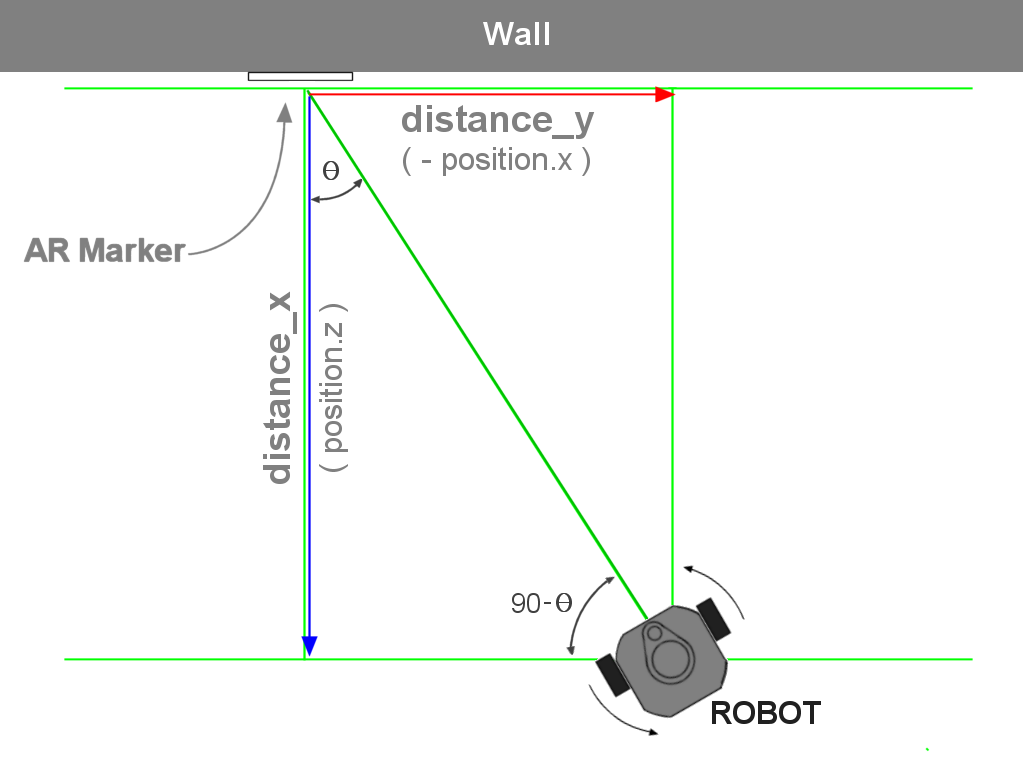
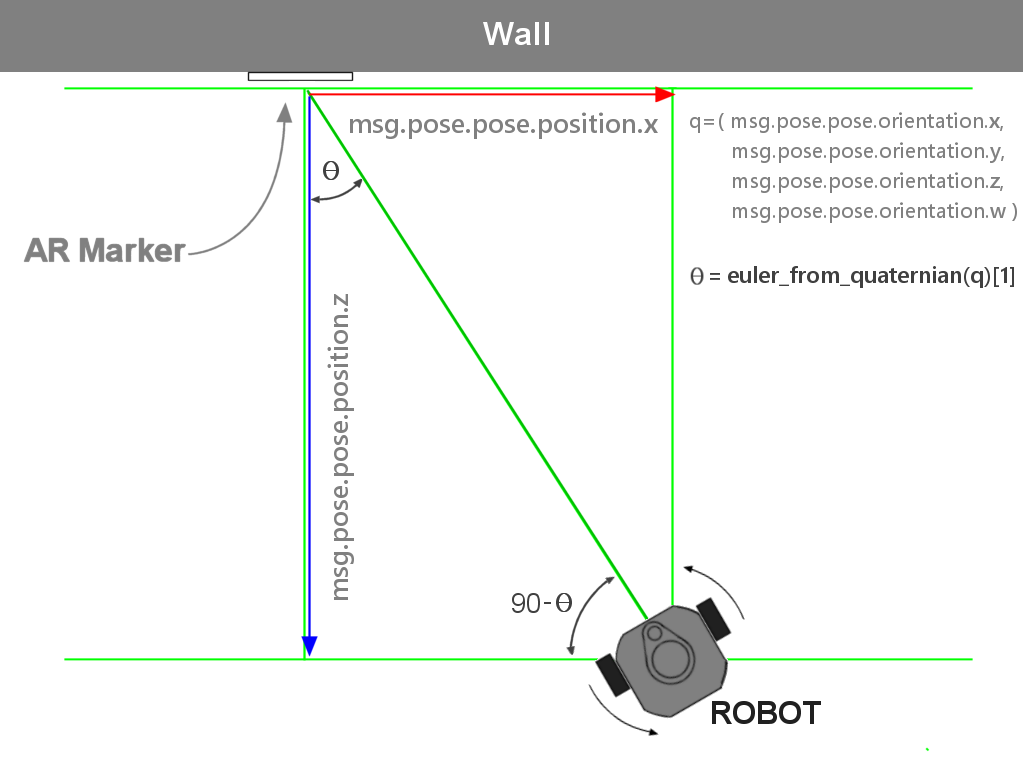
modified:   img/robot_n_marker3.png 	modified:   rospy/ar_1_ar_track_alvar.md 	modified:   rospy/ar_2_analysis_marker.md 	modified:   turtlebot3/tb3_2_RPi_serial_console.md

diff --git a/rospy/ar_2_analysis_marker.md b/rospy/ar_2_analysis_marker.md
@@ -24,8 +24,8 @@
 
 다음은 토픽 `/ar_pose_marker` 를 `rostopic echo /ar_pose_marker` 명령으로 화면출력 시킨 결과이다.
 
-```
-user@computer:~$ rostopic /ar_pose_marker
+```bash
+$ rostopic /ar_pose_marker
 ---
 header: 
   seq: 329
@@ -65,7 +65,7 @@ markers:
 
 이 데이터의 형식은 항목과 그 값의 조합으로 이루어져 있다. 일단 가장 큰 항목으로 header 와 markers 가 있고 그 하위 항목들로 이루어진다. 그 내용을 들여다 보면 아래와 같다.
 
-```
+```json
 header    = { seq,
               stamp = { secs, nsecs },
               frame_id
@@ -82,7 +82,7 @@ markers  = { header  = { seq(a), stamp, frame_id },
            }
 ```
 
-```
+```json
 (a) markers[] 배열의 몇 번 째 요소인지를 나타낸다
 (b) marker 번호.
 (c) geometry_msgs/PoseStamped 형식의 pose = { header,
@@ -207,7 +207,7 @@ y축 방향 거리변화에 대한 토픽의 변화를 살펴보기위해 우선
 
 
 
-그렇다면 지금까지 알아낸 정보를 이용하여, `turtlesim` 구동시 발행되는 토픽 `/turtle1/pose` 와 같은 형식의 `marker_pose` 을 발행하는 노드 `pub_marker_pose.py` 를 작성해보자. 
+그렇다면 지금까지 알아낸 정보를 이용하여, `/ar_pose_marker` 토픽을 `subsicribe` 하여 마커와 로봇  `turtlesim` 구동시 발행되는 토픽 `/turtle1/pose` 와 같은 `Pose` 형식의 `marker_pose` 을 발행하는 노드 `pub_marker_pose.py` 를 작성해보자. 
 
 ```python
 #!/usr/bin/env python
@@ -219,57 +219,58 @@ from math import degrees, radians, sin, cos, pi
 from ar_track_alvar_msgs.msg import AlvarMarkers
 from tf.transformations import euler_from_quaternion
 
-TARGET_ID = int(sys.argv[1])
+TARGET_ID = int(sys.argv[1]) # argv[1] = id of target marker
 
 class MarkerPose:
 
-    def __init__(self):
-    
-        rospy.init_node('pub_marker_pose', anonymous = True)        
-        rospy.Subscriber('/ar_pose_marker', AlvarMarkers, self.marker_pose2d_cb )
-        self.pub = rospy.Publisher('/marker_pose', Pose, queue_size = 10)
-        
-        self.marker_pose2d = Pose()        
-    """   
-                                             ////////////| ar_marker |////////////
-            y                      z         --------+---------+---------+--------
-            ^  x                   ^                 |     R-0/|\R-0    R|
-            | /                    |                 |       /0|0\       |
-     marker |/                     | robot           |      /  |  \      |
-            +------> z    x <------+                 |     /   |   \     |
-                                  /                  |  dist   |  dist   |
-                                 /                   |   /     |     \   |
-                                y                    |  /      |      \  |
-                                                     | /       |       \0|
-    dist   = position.z                              |/R-0    R|R    R-0\|
-    dist_x = position.z * cos0               (0 < O) x---------+---------x (0 > 0)
-    dist_y = position.z * sin0                       ^  dist_y   dist_y  ^   
-    0      = euler_from_quaternion(q)[1]             |                   |
-                                                   robot               robot
-    """        
-    def marker_pose2d_cb(self, msg):
-    
+    def __init__(self):    
+        rospy.init_node('pub_marker_pose2d')        
+        rospy.Subscriber('/ar_pose_marker', AlvarMarkers, self.pub_marker_pose2d_cb )
+        self.pub = rospy.Publisher('/marker_pose2d', Pose, queue_size = 10)
+        """   
+                                                 ////////////| ar_marker |////////////
+                y                      z         --------+---------+---------+--------
+                ^  x                   ^                 |     R-0/|\R-0    R|
+                | /                    |                 |       /0|0\       |
+         marker |/                     | robot           |      /  |  \      |
+                +------> z    x <------+                 |     /   |   \     |
+                                      /                  |  dist   |  dist   |
+                                     /                   |   /     |     \   |
+                                    y                    |  /      |      \  |
+                                                         | /       |       \0|
+                                                         |/R-0    R|R    R-0\|
+        pose.x = position.z                      (0 < O) x---------+---------x (0 > 0)
+        pose.y = position.x              [0]roll         ^                   ^   
+        theta  = euler_from_quaternion(q)[1]pitch*       |                   |
+                                         [2]yaw        robot               robot
+        """        
+    def pub_marker_pose2d_cb(self, msg):
+    	        
         pose2d = Pose()
         
-        for msg in msg.markers:
-        
-            if msg.id == TARGET_ID:
+        if len(msg.markers) != 0: # found marker at least 1EA
             
-                theta = self.get_marker_th(msg)
+            for msg in msg.markers:
                 
-                if  (theta >  5.0):
-                    pose2d.theta = theta - 2 * pi            
-                elif(theta < -5.0):
-                    pose2d.theta + 2 * pi
-                else:
-                    pose2d.theta = theta
+                if msg.id == TARGET_ID: # found target marker
+                    
+                    theta = self.get_marker_th(msg)
+                    
+					# make theta from -90 to 90
+                    if   theta >  radians(270): 
+                        pose2d.theta = theta - 2 * pi            
+                    elif theta < -radians(270):
+                        pose2d.theta = theta + 2 * pi
+                    else:
+                        pose2d.theta = theta
+
+                    pose2d.x = msg.pose.pose.position.z
+                    pose2d.y = msg.pose.pose.position.x
+
+                    self.pub.publish(pose2d)                
+                    self.print_pose(pose2d)
                 
-                pose2d.x = msg.pose.pose.position.z * cos(theta)    # msg.pose.pose.position.z
-                pose2d.y = msg.pose.pose.position.z * sin(theta)    #-msg.pose.pose.position.x
-                
-                self.marker_pose2d = pose2d
-                self.pub.publish(pose2d)                
-                self.print_pose(pose2d)       
+    def get_marker_th(self, msg):       
         """
         orientation x,y,z,w ----+
                                 +--4---> +-------------------------+
@@ -286,37 +287,38 @@ class MarkerPose:
           y: euler_from_quaternion(q)[2] | yaw    (z) | (x) roll   | 
                                          +------------+------------+
         """    
-    def get_marker_th(self, msg):
-    
         q = (msg.pose.pose.orientation.x, msg.pose.pose.orientation.y, 
              msg.pose.pose.orientation.z, msg.pose.pose.orientation.w)
              
         quart = euler_from_quaternion(q)
         theta = quart[1]
         
+        # make theta from 0 to 360(deg)
         if theta < 0:
-            theta = theta + 2 * pi
+            theta = theta + radians(360)
         if theta > 2 * pi:
-            theta = theta - 2 * pi
+            theta = theta - radians(360)
 
         return theta
     
         
     def print_pose(self, pose2d):
-        x  = round(pose2d.x, 2)
-        y  = round(pose2d.y, 2);
-        th = round(degrees(pose2d.theta), 2)
-        print "pose2d.x = %5s, pose2d.y = %5s, pose2d.theta = %6s" %(x, y, th)
+        print "pose2d.x = %s, pose2d.y = %s, pose2d.theta = %s" %(pose2d.x, pose2d.y, degrees(pose2d.theta))
           
 
 if __name__ == '__main__':
-    try:
-        
+    try:        
         MarkerPose()
         rospy.spin()
         
     except rospy.ROSInterruptException:  pass
 
+```
+
+3번 마커를 사용할 경우 다음과 같이 실행한다.
+
+```bash
+$ rosrun ar_marker pub_marker_pose.py 3
 ```
 
 

diff --git a/rospy/ar_1_ar_track_alvar.md b/rospy/ar_1_ar_track_alvar.md
@@ -32,75 +32,70 @@
 
 설치할 패키지는 `ros-kinetic-ar-track-alvar` 와  `ros-kinetic-ar-track-alvar-msgs` 이다.
 
-```
-user@computer:~$ sudo apt-get install ros-kinetic-ar-track-alvar*
+```bash
+$ sudo apt-get install ros-kinetic-ar-track-alvar*
 ```
 
 **소스 코드 빌드**
 
 소스코드를 `catkin_make` 로 빌드하여 사용하길 원한다면 먼저 catkin 워크스페이스의 'src' 폴더로 경로 변경 후, 소스코드를 가져다 빌드한다. ( 빌드할 때에는 먼저 `~/catkin_ws` 폴더로 경로 변경한다. )
 
-```
-user@computer:~$ cd ~/catkin_ws/src
-user@computer:~/catkin_ws/src$ git clone https://github.com/ros-perception/ar_track_alvar/tree/kinetic-devel
-user@computer:~/catkin_ws/src$ cd ~/catkin_ws
-user@computer:~/catkin_ws$ catkin_make
+```bash
+$ cd ~/catkin_ws/src
+$ git clone https://github.com/ros-perception/ar_track_alvar/tree/kinetic-devel
+$ cd ~/catkin_ws
+$ catkin_make
 ```
 
 
 
 #### 1.2 실행을 위한 launch 파일 준비
 
-ar_track_alvar 패키지 구동 launch 파일을 하나 만들겠다. AR Marker를 인식하는 노드가 작동하려면 
+`ar_track_alvar` 패키지 구동 `launch` 파일을 하나 만들어 보자. AR Marker를 인식하는 노드가 작동하려면 
 
-1. 카메라 영상을 ROS 네트워크에 스트리밍하는 노드가 구동 중이어야 한다.
-2. ar_track_alvar 패키지가 1번 항목의 노드가 발행하는 토픽(영상)을 입력으로 구동 중이어야 한다.
-3. 사용자 작성 노드가 2번 항목의 노드가 발행하는 토픽(마커에 대한 토픽:"/ar_pose_maeker")을 구독하여 처리한다.
+1. 영상
+2. 카메라 영상을 ROS 네트워크에 스트리밍하는 노드(`uvc_camera_node`, `usb_cam_node` 등)가 구동 중이어야 한다.
+3. `ar_track_alvar` 패키지가 1번 항목의 노드가 발행하는 토픽(영상)을 입력으로 구동 중이어야 한다.
+4. 사용자 작성 노드가 2번 항목의 노드가 발행하는 토픽(마커에 대한 토픽:`/ar_pose_maeker`)을 구독하여 처리한다.
 
-작성할 launch 파일은 위의 1~3 항목 중 2번에 해당하는 기능을 구동하는 launch 파일이다. 당장은 launch 파일 하나만 필요하지만 나중을 위해 사용자 패키지를 하나 만들어 작성하자.
+작성할 `launch` 파일은 위의 2~4 항목 중 3번에 해당하는 기능을 구동하는 `launch` 파일이다. 당장은 `launch` 파일 하나만 필요하지만 나중을 위해 사용자 패키지를 하나 만들어 작성하자.
 
-별다른 의존성이나 작업이 필요없지만, 나중에 이 패키지에 marker tracking 같은 기능의 소스코드를 추가할 때를 위해 rospy, geometry_msg 에 대해 의존성을 가지는 ar_marker 패키지를 생성한다. 
+별다른 의존성이나 작업이 필요없지만, 나중에 이 패키지에 marker tracking 같은 기능의 소스코드를 추가할 때를 위해 `rospy` ,  `geometry_msg` 에 대해 의존성을 가지는 `ar_marker` 패키지를 생성한다. 
 
-패키지 생성은 catkin 워크스페이스의 하위 폴더인 src 폴더에서 한다.
+패키지 생성은 `catkin` 워크스페이스의 하위 폴더인 `src` 폴더에서 한다.
 
 ```bash
 $ cd ~/catkin_ws/src
 $ catkin_create_pkg ar_marker geometry_msgs rospy
 ```
 
-경로를 새로 만든 패키지 폴더(ar_marker)로 변경하고, 'launch' 폴더를 만든다.
+경로를 새로 만든 패키지 폴더(`ar_marker`)로 변경하고, `launch` 폴더를 만든다.
 
 ```bash
 $ cd ar_marker
 $ mkdir launch
 ```
 
- 다시 경로를 지금 만든 launch 폴더로 변경한다.
+ 다시 경로를 지금 만든 `launch` 폴더로 변경한다.
 
 ```bash
 $ cd launch
 ```
 
-ar_track_alvar 가 설치된 곳에서 launch 파일 하나를 좀 전에 만든 launch 폴더로 복사한다. ( pr2_indiv_no_kinect.launch 파일을 track_marker.launch 로 이름을 바꿔 복사 )
+`ar_track_alvar` 가 설치된 곳에서 `launch` 파일 하나를 좀 전에 만든 `launch` 폴더로 복사한다. ( `pr2_indiv_no_kinect.launch` 파일을 `track_marker.launch` 로 이름을 바꿔 복사 )
 
 ```bash
 $ cp /opt/ros/kinetic/share/ar_track_alvar/launch/pr2_indiv_no_kinect.launch ./track_marker.launch
 ```
 
-소스 코드를 받아 빌드한 경우는 다음 내용을 참고한다.
-
-```bash
-$ cp ~/catkin_ws/src/ar_track_alvar/launch/pr2_indiv_no_kinect.launch ./launch/track_marker.launch
-```
-
-복사한 track_marker.launch 를 편집한다. 
+복사한 `track_marker.launch` 를 편집한다. 
 
 ```bash
 $ cd launch
 $ gedit track_marker.launch &
 ```
 
-아래는 복사해온 launch 파일의 내용과 변경할 값에 대한 설명이다.
+아래는 복사해온 `launch` 파일의 내용과 변경할 값에 대한 설명이다.
 
 
 ```xml
@@ -130,23 +125,23 @@ $ gedit track_marker.launch &
 
 1. **marker_size**
 
-   프린터로 출력한 AR Marker의 한 변의 길이( 검은 색 정사각형의 한변의 길이 )를 실측하여 Cm 단위의 숫자를 ""안에 입력한다.
+   프린터로 출력한 AR Marker의 한 변의 길이( 검은 색 정사각형의 한변의 길이 )를 실측하여 cm 단위의 숫자를 ""안에 입력한다.
 
 2. **cam_image_topic** 및 
 
 3. **cam_info_topic**
 
    마커를 인식할 카메라의 구동 노드로 uvc_camera 패키지의 uvc_camera_node를 구동한 경우, rostopic list 명령을 실행해보면 다음과 같은 화면 출력을 볼 수 있다.
-
-
+   
    ```bash
-  $ rostopic list
-   /camera_info
-   /image_raw
-   /image_raw/compressed
-   /image_raw/compressed/parameter_descriptions
-   (이하 생략 / Omitted below)
+   $ rostopic list
+      /camera_info
+      /image_raw
+      /image_raw/compressed
+      /image_raw/compressed/parameter_descriptions
+      (이하 생략 / Omitted below)
    ```
+   
    출력된 목록 중 `/camera_info` 가 **3. cam_info_topic** 에 해당하고, `/image_raw` 가 **2. cam_image_topic** 에 해당한다.
 
 4. **output_frame**
@@ -190,13 +185,13 @@ $ gedit track_marker.launch &
 </launch>
 ```
 
-~/catkin_ws로 경로를 변경하고 catkin_make를 실행하여 track_marker.launch패키지를 작성한 ar_marker 패키지를 빌드한다.
+`~/catkin_ws`로 경로를 변경하고 `catkin_make`를 실행하여 `track_marker.launch` 패키지를 작성한 `ar_marker` 패키지를 빌드한다.
 
 
 
 ### 2. 구동 및 마커인식 확인
 
-roscore 실행
+`roscore` 실행
 
 ```bash
 $ roscore
@@ -208,13 +203,13 @@ USB 카메라 구동
 $ rosrun uvc_camera uvc_camera_node
 ```
 
-track_marker.launch 실행
+`track_marker.launch` 실행
 
 ```bash
 $ roslaunch ar_marker track_marker.launch
 ```
 
-토픽 리스트에 "/ar_pose_marker"가 존재하는 지 확인
+토픽 리스트에 `/ar_pose_marker`가 존재하는 지 확인
 
 ```bash
 $ rostopic list

diff --git a/turtlebot3/tb3_2_RPi_serial_console.md b/turtlebot3/tb3_2_RPi_serial_console.md
@@ -277,11 +277,11 @@ ttyUSB0
 앞서 컴파일한 `com.c` 의 실행파일인 `com` 을 이용해 시리얼콘솔에 접속한다.
 
 ```bash
-$ sudo ./com /dev/ttyUSB0 115200
+$ sudo ~/com /dev/ttyUSB0 115200
 ```
 
 ```bash
-$ sudo ./com /dev/ttyUSB0 115200
+$ sudo ~/com /dev/ttyUSB0 115200
 setting speed 115200
 Ctrl-Q exit, Ctrl-Y modem lines status
 [STATUS]: RTS CTS DSR DTR 
@@ -301,7 +301,7 @@ permitted by applicable law.
 pi@Raspberrypi:~$ 
 ```
 
-`./com` 실행 시 `sudo` 가 필요한 것은 `/dev/ttyUSB0` 에 대한 접근 권한이 없기 때문이다. `/dev/tty*` 에 대한 권한을 부여받으려면 현재 사용자를 `dialout` 그룹의 멤버로 만들어 주면 된다. 로그인된 사용자가 가입되어 있는 그룹을 알아보려면 `id` 명령을 사용한다. 
+`~/com` 실행 시 `sudo` 가 필요한 것은 `/dev/ttyUSB0` 에 대한 접근 권한이 없기 때문이다. `/dev/tty*` 에 대한 권한을 부여받으려면 현재 사용자를 `dialout` 그룹의 멤버로 만들어 주면 된다. 로그인된 사용자가 가입되어 있는 그룹을 알아보려면 `id` 명령을 사용한다. 
 
 ```bash
 $ id
@@ -324,6 +324,9 @@ uid=1000(user) gid=1000(user) groups=1000(user),4(adm),20(dialout),24(cdrom),27(
 ```
 
 이제 `sudo` 없이 `~/com /dev/ttyUSB0 115200` 과 같이 시리얼 콘솔을 사용할 수 있다. 
+
+
+
 
 
 
